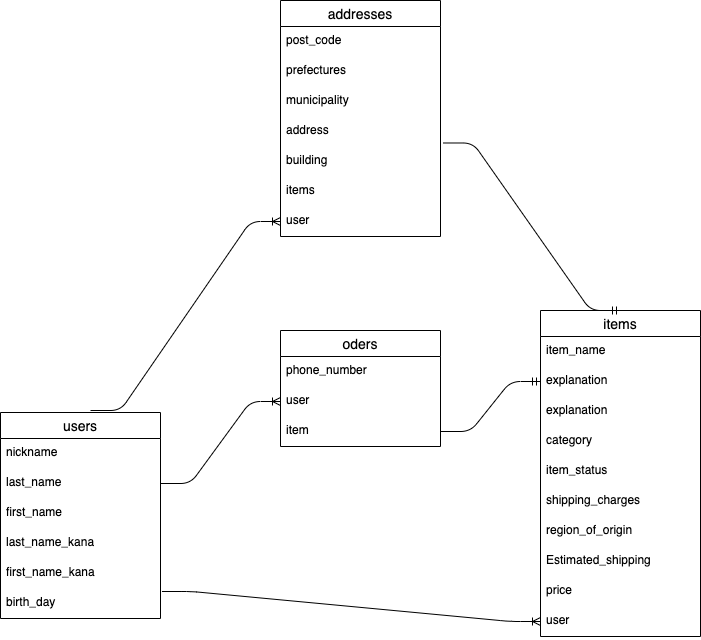
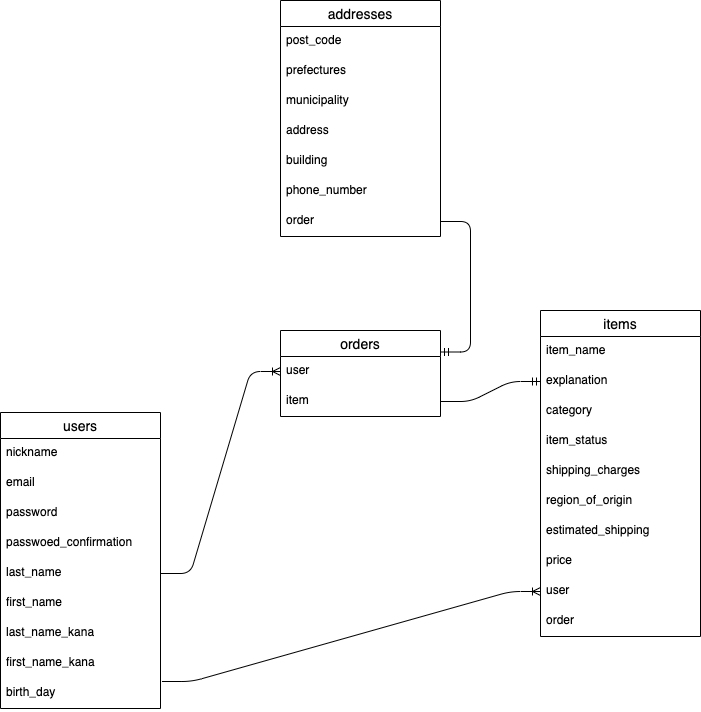
データベース設計修正３

diff --git a/README.md b/README.md
@@ -27,69 +27,70 @@ Things you may want to cover:
 
 ## users テーブル
 
-| Column             | Type   | Options     |
-| ------------------ | ------ | ----------- |
-| nickname           | string | null: false |
-| last_name          | string | null: false |
-| first_name         | string | null: false |
-| last_name_kana     | string | null: false |
-| first_name_kane    | string | null: false |
-| birth_day          | date   | null: false |
+| Column                | Type   | Options     |
+| --------------------- | ------ | ----------- |
+| nickname              | string | null: false |
+| email                 | string | null: false |
+| password              | string | null: false |
+| password_confirmation | string | null: false |
+| last_name             | string | null: false |
+| first_name            | string | null: false |
+| last_name_kana        | string | null: false |
+| first_name_kane       | string | null: false |
+| birth_day             | date   | null: false |
 
 ### Association
 - has_many :items
-- has_many :addresses
-- has_many :oders
+- has_many :orders
 
 
 
 ## items テーブル
 
 | Column             | Type       | Options     |
-| ------------------ | -----------| ----------- |
+| ------------------ | -----------| ------------|
 | item_name          | string     | null: false |
 | explanation        | text       | null: false |
-| category           | string     | null: false |
-| item_status        | string     | null: false |
-| shipping_charges   | string     | null: false |
-| region_of_origin   | string     | null: false |
-| Estimated_shipping | string     | null: false |
-| price              | int        | null: false |
+| category           | integer    | null: false |
+| item_status        | integer    | null: false |
+| shipping_charges   | integer    | null: false |
+| region_of_origin   | integer    | null: false |
+| estimated_shipping | integer    | null: false |
+| price              | integer    | null: false |
 | user               | references | null: false |
+| order              | references | null: false |
 
 ### Association
 - belongs_to :user 
-- has_one :address
-- has_one :oder
+- has_one :order
 
 
 
 ## addresses テーブル
 
-| Column             | Type       | Options     |
-| ------------------ | ---------- | ----------- |
-| post_code          | string     | null: false |
-| prefectures        | string     | null: false |
-| municipality       | string     | null: false |
-| address            | string     | null: false |
-| building           | string     |             |
-| item               | references | null: false |
-| user               | references | null: false |
+| Column             | Type       | Options                      |
+| ------------------ | ---------- | ---------------------------- |
+| post_code          | string     | null: false                  |
+| prefectures        | integer    | null: false                  |
+| municipality       | string     | null: false                  |
+| address            | string     | null: false                  |
+| building           | string     |                              |
+| phone_number       | string     | null: false                  |
+| order              | references | null: false ,foreign_key:true|
+
+### Association
+- belongs_to :order
+
+
+
+## orders テーブル
+
+| Column             | Type       | Options                      |
+| ------------------ | -----------| -----------------------------|
+| user               | references | null: false ,foreign_key:true|
+| item               | references | null: false ,foreign_key:true|
 
 ### Association
 - belongs_to :user
-- belongs_to :items
-
-
-
-## oders テーブル
-
-| Column             | Type       | Options     |
-| ------------------ | -----------| ----------- |
-| phone_number       | string     | null: false |    
-| user               | references | null: false |
-| item               | references | null: false |
-
-### Association
-- belongs_to :user
-- belongd_to :item
+- belongs_to :item
+- has_one :addresses
